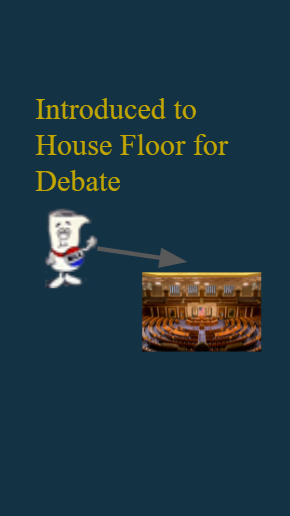
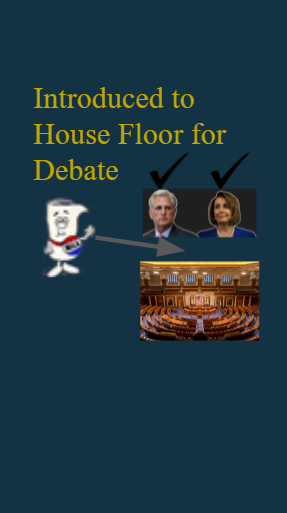
still havent studied!

Changed region(s): [[0.1115, 0.1559, 0.9199, 0.6862], [0.8362, 0.2807, 0.8641, 0.3119]]

diff --git a/flappy_update.py b/flappy_update.py
@@ -138,7 +138,7 @@ score_sound_countdown = 100
 SCOREEVENT = pygame.USEREVENT + 2
 pygame.time.set_timer(SCOREEVENT,100)
 
-while True:
+while 60 > score:
 	for event in pygame.event.get():
 		if event.type == pygame.QUIT:
 			pygame.quit()
@@ -196,10 +196,10 @@ while True:
 		if 10 > score > 8:
 			bg_surface = pygame.image.load('assets/fullcommit.png').convert()
 			bg_surface = pygame.transform.scale2x(bg_surface)
-		if 13 > score > 11:
+		if 14 > score > 11:
 			bg_surface = pygame.image.load('assets/rules.png').convert()
 			bg_surface = pygame.transform.scale2x(bg_surface)
-		if 16 > score > 14:
+		if 16 > score > 15:
 			bg_surface = pygame.image.load('assets/housefloor.png').convert()
 			bg_surface = pygame.transform.scale2x(bg_surface)
 			bird_downflap = pygame.transform.scale2x(pygame.image.load('assets/nancy.png').convert_alpha())
@@ -233,8 +233,6 @@ while True:
 		if 31 > score > 29:
 			bg_surface = pygame.image.load('assets/senintrodebate.png').convert()
 			bg_surface = pygame.transform.scale2x(bg_surface)
-			bg_surface = pygame.image.load('assets/intosenate.png').convert()
-			bg_surface = pygame.transform.scale2x(bg_surface)
 			bird_downflap = pygame.transform.scale2x(pygame.image.load('assets/chuck.png').convert_alpha())
 			bird_midflap = pygame.transform.scale2x(pygame.image.load('assets/chuck.png').convert_alpha())
 			bird_upflap = pygame.transform.scale2x(pygame.image.load('assets/chuck.png').convert_alpha())
@@ -243,16 +241,55 @@ while True:
 			bird_surface = bird_frames[bird_index]
 			BIRDFLAP = pygame.USEREVENT + 1
 			pygame.time.set_timer(BIRDFLAP,200)
+		if 34 > score > 32:
+			bg_surface = pygame.image.load('assets/confcomit.png').convert()
+			bg_surface = pygame.transform.scale2x(bg_surface)
+			bird_downflap = pygame.transform.scale2x(pygame.image.load('assets/bill.png').convert_alpha())
+			bird_midflap = pygame.transform.scale2x(pygame.image.load('assets/bill.png').convert_alpha())
+			bird_upflap = pygame.transform.scale2x(pygame.image.load('assets/bill.png').convert_alpha())
+			bird_frames = [bird_downflap,bird_midflap,bird_upflap]
+			bird_index = 0
+			bird_surface = bird_frames[bird_index]
+			BIRDFLAP = pygame.USEREVENT + 1
+			pygame.time.set_timer(BIRDFLAP,200)
+		if 37 > score > 35:
+			bg_surface = pygame.image.load('assets/confex.png').convert()
+			bg_surface = pygame.transform.scale2x(bg_surface)
+		if 40 > score > 38:
+			bg_surface = pygame.image.load('assets/houseapp.png').convert()
+			bg_surface = pygame.transform.scale2x(bg_surface)
+		if 43 > score > 41:
+			bg_surface = pygame.image.load('assets/senateapp.png').convert()
+			bg_surface = pygame.transform.scale2x(bg_surface)
+		if 46 > score > 44:
+			bg_surface = pygame.image.load('assets/filibust.png').convert()
+			bg_surface = pygame.transform.scale2x(bg_surface)
+		if 55 > score > 47:
+			bg_surface = pygame.image.load('assets/prez.png').convert()
+			bg_surface = pygame.transform.scale2x(bg_surface)
+			bird_downflap = pygame.transform.scale2x(pygame.image.load('assets/joe.png').convert_alpha())
+			bird_midflap = pygame.transform.scale2x(pygame.image.load('assets/joe.png').convert_alpha())
+			bird_upflap = pygame.transform.scale2x(pygame.image.load('assets/joe.png').convert_alpha())
+			bird_frames = [bird_downflap,bird_midflap,bird_upflap]
+			bird_index = 0
+			bird_surface = bird_frames[bird_index]
+			BIRDFLAP = pygame.USEREVENT + 1
+			pygame.time.set_timer(BIRDFLAP,200)
+		if 59 > score > 56:
+			bg_surface = pygame.image.load('assets/win.png').convert()
+			bg_surface = pygame.transform.scale2x(bg_surface)
+
 
 	#	if 16 > score > 14:
 		#	bg_surface = pygame.image.load('assets/sub.png').convert()
 		#	bg_surface = pygame.transform.scale2x(bg_surface)
 
 	else:
+		score = 0
 		screen.blit(game_over_surface,game_over_rect)
 		high_score = update_score(score,high_score)
 		score_display('game_over')
-		score = 0
+		
 
 
 	# Floor
